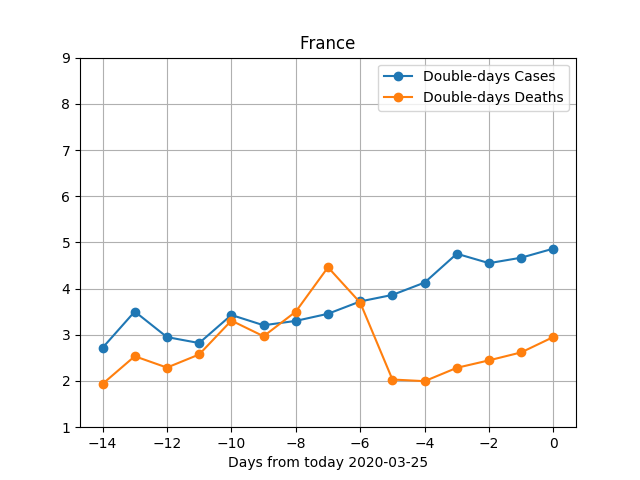
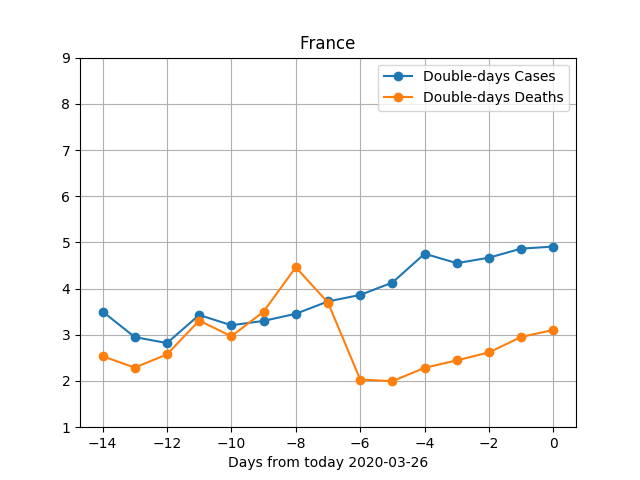
26 March

Changed region(s): [[0.1562, 0.5312, 0.875, 0.8125], [0.625, 0.5, 0.875, 0.5938], [0.6562, 0.9375, 0.6875, 0.9688]]

diff --git a/scripts/my_analysis.py b/scripts/my_analysis.py
@@ -10,7 +10,7 @@ set_qt()
 urlCases = "https://raw.githubusercontent.com/CSSEGISandData/COVID-19/master/csse_covid_19_data/csse_covid_19_time_series/time_series_covid19_confirmed_global.csv"
 urlDeaths = "https://raw.githubusercontent.com/CSSEGISandData/COVID-19/master/csse_covid_19_data/csse_covid_19_time_series/time_series_covid19_deaths_global.csv"
 
-def get_country(name="Spain",number_of_past_days=29):
+def get_country(name="Spain",number_of_past_days=29,day=0):
 
      a = numpy.genfromtxt(urlCases,delimiter=' ,',dtype=str)
      b = numpy.genfromtxt(urlDeaths,delimiter=' ,',dtype=str)
@@ -28,8 +28,13 @@ def get_country(name="Spain",number_of_past_days=29):
      spain=a[ifound].split(",")
      spainD=b[ifound].split(",")
 
-     s = numpy.array(spain[-number_of_past_days:],dtype=float).copy()
-     sD = numpy.array(spainD[-number_of_past_days:],dtype=float).copy()
+     if day == 0:
+         s = numpy.array(spain[(-number_of_past_days+day):],dtype=float).copy()
+         sD = numpy.array(spainD[(-number_of_past_days+day):],dtype=float).copy()
+     else:
+         s = numpy.array(spain[(-number_of_past_days+day):day],dtype=float).copy()
+         sD = numpy.array(spainD[(-number_of_past_days+day):day],dtype=float).copy()
+
      uptoday = numpy.linspace(-len(spain), 0, len(spain) + 1)
      t = uptoday[-number_of_past_days:]
      return t,s,sD
@@ -57,36 +62,23 @@ def italy_vs_spain():
 
      plt.grid(b=True,which="major")
      plt.grid(b=True,which="minor")
-     filepng = "../figures/italy_vs_spain_%s.png"%date.today()
+     filepng = "../figures/italy_vs_spain.png"
      plt.savefig(filepng)
      print("File %s written to file."%filepng)
      plt.show()
 
 
-
-# italy_vs_spain()
-
 def expo2(x,t0,a0):
      y4 = 2 ** (x / t0)
-
      y4 = y4 * a0
-
      return y4
 
-def analyze_country(country1):
-     # country1 = "Spain"
-     t1,c1,d1 = get_country(country1)
-
-
-     # t = t1
-     # y4 = 2**(t/4)
-     # y4 = y4 / y4[-1] * c1[-1]
+def analyze_country(country1,day=0,do_plot=True):
+     t1,c1,d1 = get_country(country1,day=day)
 
      ndays=7
      poptC, pcov = curve_fit(expo2, t1[-ndays:], c1[-ndays:], p0=[3,c1[-1]])
      poptD, pcov = curve_fit(expo2, t1[-ndays:], d1[-ndays:], p0=[3,d1[-1]])
-
-     print(">>>>>>>>",poptC,poptD)
 
      t11 = numpy.concatenate((t1,numpy.array([1,2])))
 
@@ -95,36 +87,123 @@ def analyze_country(country1):
      tomorrowC = expo2(1,poptC[0], poptC[1])
      tomorrowD = expo2(1,poptD[0], poptD[1])
 
+     if do_plot:
+         plot(t1,c1,
+              t1,d1,
+              t11,expo2(t11,poptC[0],poptC[1]),
+              t11,expo2(t11,poptD[0],poptD[1]),
+              ylog=1,
+              legend=["Cases","Deaths",
+                      "Cases double in %2.1f days"%poptC[0],"Deaths double in %2.1f days"%poptD[0],],
+              xtitle="Days from today (%s)" % date.today(),
+              title="%s (%s): %d cases %d deaths, \n prediction tomorrow: %d cases (+%d) %d deaths (+%d)"%\
+                    (country1,date.today(),
+                     todayC,todayD,
+                     tomorrowC,tomorrowC-todayC,
+                     tomorrowD,tomorrowD-todayD),
+              ytitle="cases/deaths",
+              linestyle=["solid","solid","dashed","dashed"],
+              show=0)
 
-     plot(t1,c1,
-          t1,d1,
-          t11,expo2(t11,poptC[0],poptC[1]),
-          t11,expo2(t11,poptD[0],poptD[1]),
-          ylog=1,
-          legend=["Cases","Deaths",
-                  "Cases doble in %2.1f days"%poptC[0],"Deaths doble in %2.1f days"%poptD[0],],
-          xtitle="Days from today (%s)" % date.today(),
-          title="%s (%s): %d cases %d deaths, \n prediction tomorrow: %d cases (+%d) %d deaths (+%d)"%\
-                (country1,date.today(),
-                 todayC,todayD,
-                 tomorrowC,tomorrowC-todayC,
-                 tomorrowD,tomorrowD-todayD),
-          ytitle="cases/deaths",
-          linestyle=["solid","solid","dashed","dashed"],
+         plt.grid(b=True, which="major")
+         plt.grid(b=True, which="minor")
+         filepng = "../figures/%s_%s.png" % (country1,date.today())
+         plt.savefig(filepng)
+         print("File %s written to file." % filepng)
+         plt.show()
+
+     return tomorrowC, tomorrowD, todayC, todayD, poptC[0], poptD[0]
+
+
+def model_analysis(country1):
+
+
+     print("day   tomorrowC    tomorrowD      todayC        todayD    real-prevision   real-prevision  coeC coeD")
+
+     tomorrowC_old, tomorrowD_old, todayC_old, todayD_old = 0,0,0,0
+     ndays = 15
+     out = numpy.zeros((15,9))
+     for i,day in enumerate(range(0,-ndays,-1)):
+         tomorrowC, tomorrowD, todayC, todayD, poptC,poptD = analyze_country(country1,do_plot=False,day=day)
+         print("%2d   %d         %d         %d      %d     %d    %d   %2.1f  %2.1f"%\
+               (day,tomorrowC, tomorrowD, todayC, todayD,todayC_old-tomorrowC,todayD_old-tomorrowD,poptC,poptD))
+
+         out[i,0] = day
+         out[i,1] = tomorrowC
+         out[i,2] = tomorrowD
+         out[i,3] = todayC
+         out[i,4] = todayD
+         out[i,5] = poptC
+         out[i,6] = poptD
+         out[i,7] = todayC_old-tomorrowC
+         out[i,8] = todayD_old-tomorrowD
+
+         if i==0:
+             out[i, 7] = numpy.nan
+             out[i, 8] = numpy.nan
+
+         tomorrowC_old, tomorrowD_old, todayC_old, todayD_old = tomorrowC, tomorrowD, todayC, todayD
+
+
+     plot(out[:, 0]+1, out[:, 1],
+          out[:, 0]+1, out[:, 2],
+          out[:, 0], out[:, 3],
+          out[:, 0], out[:, 4],
+          legend=["Prevision Cases","Prevision Deaths","Cases","Deaths"],ylog=1,
+          title=country1,
+          xtitle="Days from today %s"%date.today(),
+          yrange=[10**1,10**5],
           show=0)
-
-     plt.grid(b=True, which="major")
-     plt.grid(b=True, which="minor")
-     filepng = "../figures/%s_%s.png" % (country1,date.today())
-     plt.savefig(filepng)
-     print("File %s written to file." % filepng)
+     # plt.savefig(country1+"_1.png")
      plt.show()
 
+     plot(out[:, 0], out[:, 5],
+          out[:, 0], out[:, 6],
+          legend=["Double-days Cases", "Double-days Deaths"],marker=['o','o'],
+          title=country1,
+          xtitle="Days from today %s" % date.today(),
+          yrange=[1,9],
+          show=0)
+     plt.grid(True)
+     filepng = "../figures/%s_x2.png"%country1
+     plt.savefig(filepng)
+     print("File %s written to disk"%filepng)
+     plt.show()
+
+     plot(out[:, 0], out[:, 7] / out[:, 3],
+          out[:, 0], out[:, 8] / out[:, 4],
+          legend=["Error Cases/Cases", "Error Deaths/Deaths"],marker=['o','o'],
+          title=country1,
+          xtitle="Days from today %s" % date.today(),
+          yrange=[-0.75,0.75],
+          show=0)
+     # plt.savefig(country1+"_3.png")
+     plt.show()
+
+def new_cases(country1):
+    t1, c1, d1 = get_country(country1, day=0, number_of_past_days=45)
+
+    plot(t1[1:], c1[1:]-c1[0:-1], t1[1:], d1[1:]-d1[0:-1],
+         xtitle="Days from today %s" % date.today(),
+         ytitle="Cases/deaths per day",
+         title=country1,
+         legend=["New cases","New deaths"])
+
+
+
 if __name__ == "__main__":
-     # italy_vs_spain()
-     analyze_country("Spain")
-     analyze_country("France")
-     analyze_country("Italy")
-     analyze_country("US")
-     # analyze_country("Canada")
+
+
+
+
+    # for country1 in ["Spain","Italy","France","US"]:
+    #     new_cases(country1)
+
+    # for country1 in ["Spain","Italy","France","US"]:
+    #     analyze_country(country1)
+
+    # italy_vs_spain()
+
+    for country1 in ["Spain","Italy","France","US"]:
+        model_analysis(country1)
      
